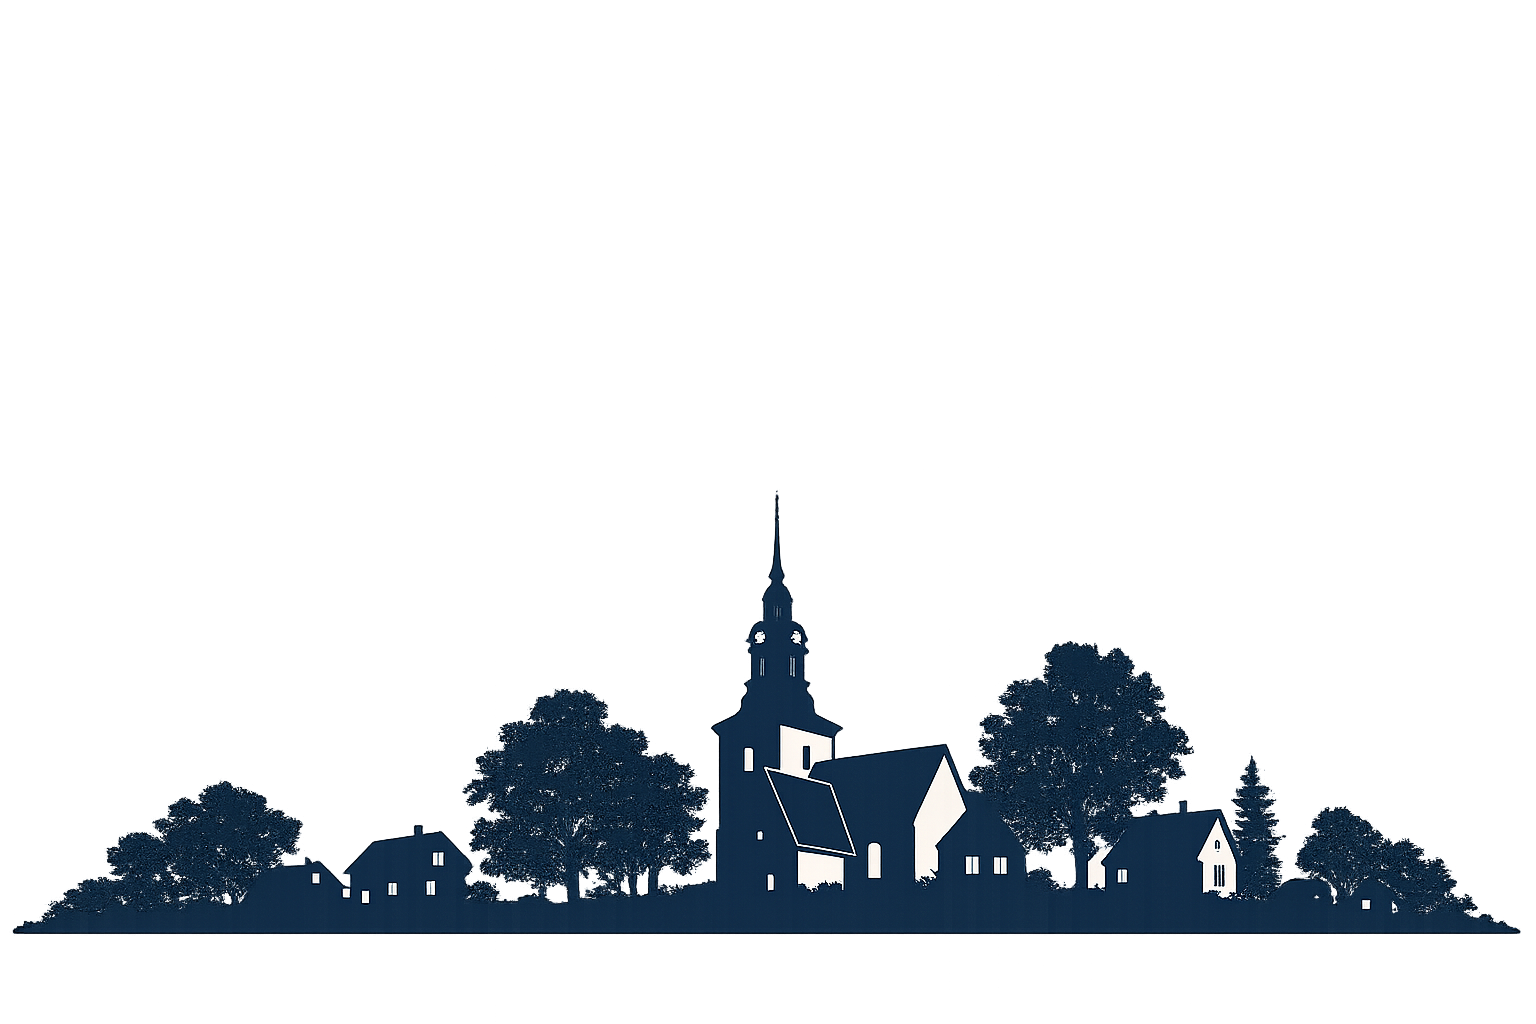
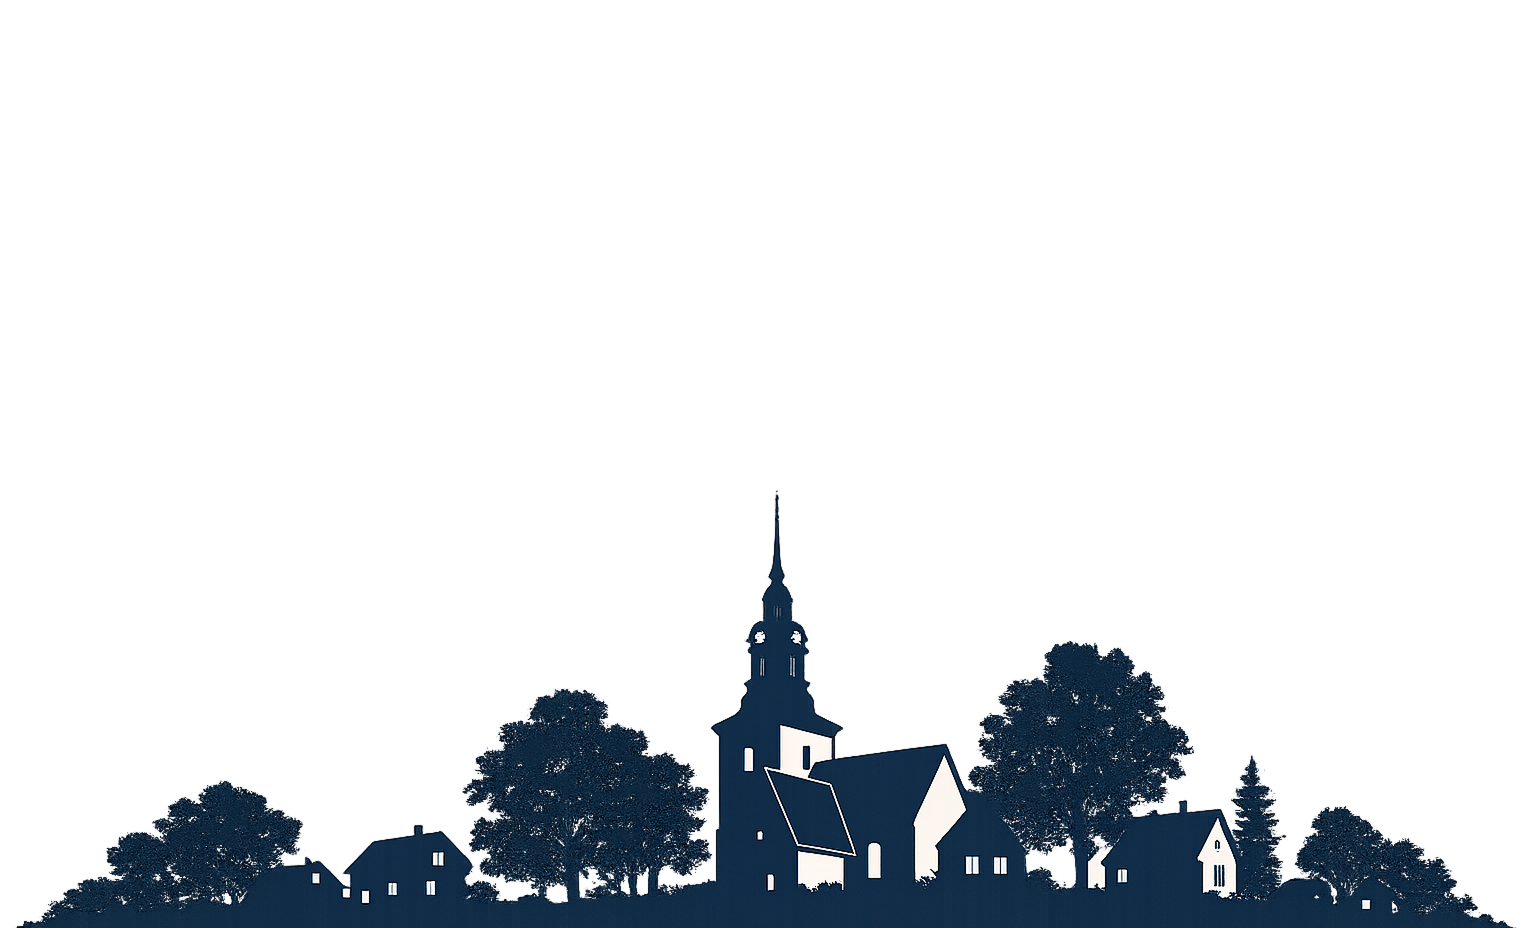
improved img in footer and uploaded author photo

Changed region(s): [[0.0, 0.5312, 1.0, 1.0]]

diff --git a/app/components/blocks/Footer.tsx b/app/components/blocks/Footer.tsx
@@ -1,12 +1,12 @@
 export default function Footer() {
   return (
-    <footer className="relative w-full bg-[var(--color-primary)] overflow-visible">
+    <footer className="relative w-full bg-[#122D48] overflow-visible">
       
-      <div className="absolute left-1/2 bottom-full -translate-x-1/2 translate-y-5">
+      <div className="absolute left-1/2 bottom-full -translate-x-1/2 translate-y-0.5">
         <img
           src="/siluett.png"
           alt="Heby Historia"
-          className="h-40 md:h-56 w-auto block pt-2"
+          className="h-40 md:h-56 w-auto block"
         />
       </div>
 

diff --git a/app/components/blocks/Author.tsx b/app/components/blocks/Author.tsx
@@ -9,7 +9,7 @@ export default function Author() {
 <div className="flex flex-col md:flex-row pb-10 items-center md:items-start gap-12 max-w-4xl mx-auto">          
           <div className="flex-shrink-0">
             <img
-              src="/author.jpg"
+              src="/anders.png"
               alt="Anders Eklund"
               className="w-48 h-48 md:w-64 md:h-64 bg-[var(--color-primary)] object-cover rounded-full"
             />

diff --git a/app/components/blocks/ContactForm.tsx b/app/components/blocks/ContactForm.tsx
@@ -22,7 +22,7 @@ export default function ContactForm({ selectedBook }: Props) {
   }, [selectedBook]);
 
   return (
-    <form className="flex flex-col gap-6">
+    <form className="flex flex-col pb-5 gap-6">
 
       <Input placeholder="Ditt namn" />
       <Input type="email" placeholder="Din e-post" />
